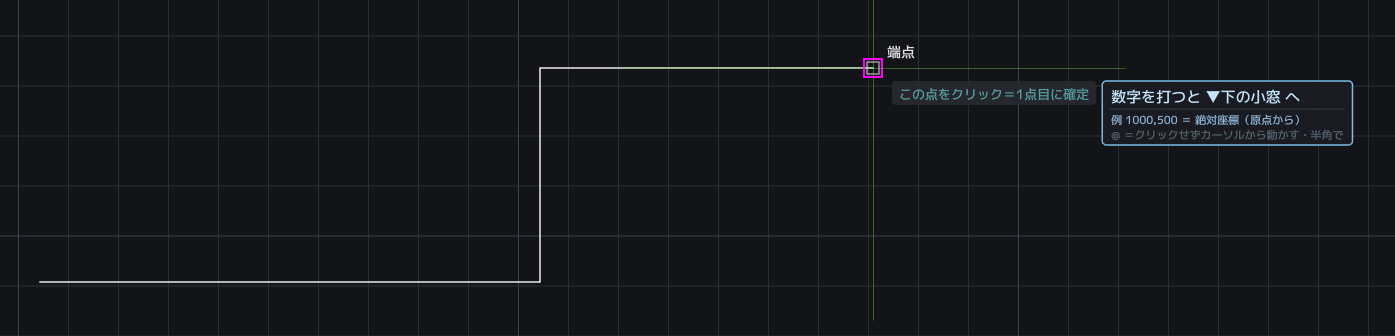
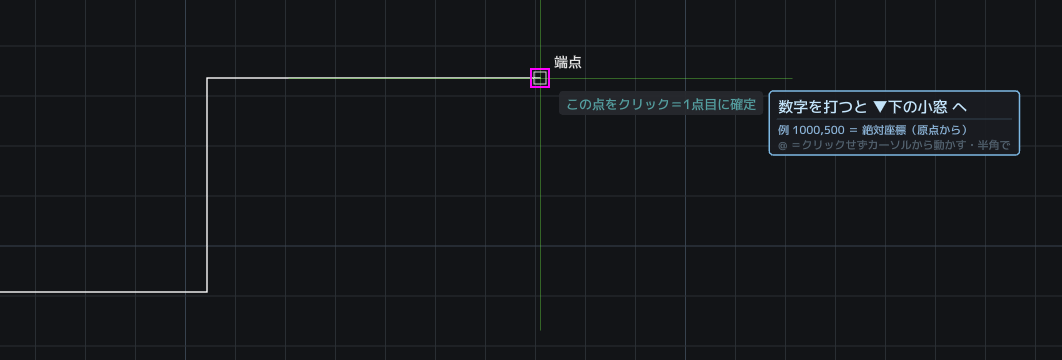
手引き：スナップの絵を詰めて大きく／本文の**強調**を太字に

diff --git a/kad/tebiki/08.html b/kad/tebiki/08.html
@@ -70,11 +70,11 @@ footer{margin-top:3em;padding-top:1em;border-top:1px solid #ded3c4;font-size:.85
 <li>線分との違いは「一本かどうか」だけです。線分は一手ごとに別々の線が生まれ、ポリラインは終えたときに一本にまとまります。</li>
 <li>外形線・敷地の境界・配管の経路など、あとで丸ごと選びたい線に。</li>
 <li>他所のCADのポリラインも一本のまま開き、保存でも一本で返します。</li>
-<li>トリムでは、ポリラインを**そのまま切れます**（一本のまま）。閉じたポリラインを切ると、開いた一本になります。ふくらみ（円弧の辺）も、途中で切れば正しく分かれます。</li>
+<li>トリムでは、ポリラインを<b>そのまま切れます</b>（一本のまま）。閉じたポリラインを切ると、開いた一本になります。ふくらみ（円弧の辺）も、途中で切れば正しく分かれます。</li>
 <li>基準線にも選べます（ここまで刈る・ここまで延ばす、の相手）。</li>
-<li>フィレット・面取りは、**ポリラインの角に効きます**（十五期百三十九号）。隣り合う二つの辺をクリックすると、その間の角が丸く（斜めに）なります。⚠弧を別に産まないので、**一本のまま**です。他所のCADでも一体で開きます。</li>
-<li>複線（O）は、ポリラインを**丸ごと平行に**太らせます（十五期百四十号）。</li>
-<li>分割（DIV）は、**全長を弧長で等分**して点を並べます。閉じた形はちょうど count 個・開いた形は両端に置かず count-1 個。</li>
+<li>フィレット・面取りは、<b>ポリラインの角に効きます</b>（十五期百三十九号）。隣り合う二つの辺をクリックすると、その間の角が丸く（斜めに）なります。⚠弧を別に産まないので、<b>一本のまま</b>です。他所のCADでも一体で開きます。</li>
+<li>複線（O）は、ポリラインを<b>丸ごと平行に</b>太らせます（十五期百四十号）。</li>
+<li>分割（DIV）は、<b>全長を弧長で等分</b>して点を並べます。閉じた形はちょうど count 個・開いた形は両端に置かず count-1 個。</li>
 </ul>
 </section>
 <section id="円"><h2>C / CIRCLE（円）</h2>
@@ -120,7 +120,7 @@ footer{margin-top:3em;padding-top:1em;border-top:1px solid #ded3c4;font-size:.85
 </ol>
 <ul>
 <li>曲線は打った点を全部、正確に通ります（雲形定規の作法）。</li>
-<li>打った点（通過点）は、あとから**吸着で掴めます**。通り芯や他の線を、その点にぴたりと合わせられます。</li>
+<li>打った点（通過点）は、あとから<b>吸着で掴めます</b>。通り芯や他の線を、その点にぴたりと合わせられます。</li>
 <li>敷地の等高線・道路の線形・意匠の曲線などに。</li>
 <li>保存はDXFのSPLINEそのまま＝他所のCADでも一本の曲線のまま開け、通過点も一緒に渡るので、あちらでそのまま編集できます。</li>
 </ul>
@@ -132,7 +132,7 @@ footer{margin-top:3em;padding-top:1em;border-top:1px solid #ded3c4;font-size:.85
 </ol>
 <ul>
 <li>REC C 10＝面取り10の四角／REC F 15＝角丸R15。0 を打てば解除です。</li>
-<li>四角は**一体のポリライン**です（十五期百三十九号）。どの辺をクリックしても四角ぜんぶが選べます（一発選択）。四隅と四辺の中点は、今までどおり全部スナップできます。複線（O）は四角ごと平行に、分割（DIV）は周りを等分します（十五期百四十号）。一辺だけ使いたい日は X（分解）で。</li>
+<li>四角は<b>一体のポリライン</b>です（十五期百三十九号）。どの辺をクリックしても四角ぜんぶが選べます（一発選択）。四隅と四辺の中点は、今までどおり全部スナップできます。複線（O）は四角ごと平行に、分割（DIV）は周りを等分します（十五期百四十号）。一辺だけ使いたい日は X（分解）で。</li>
 </ul>
 </section>
 <section id="ポリゴン"><h2>POL / ポリゴン（正多角形）</h2>
@@ -143,10 +143,10 @@ footer{margin-top:3em;padding-top:1em;border-top:1px solid #ded3c4;font-size:.85
 </div></li>
 </ol>
 <ul>
-<li>描いている間、画面の下に**帯**が出ます。辺の数（3 4 5 6 8 10 12）と、内接／外接をそこで選べます。← → でも辺の数を一つずつ増やしたり減らしたりできます。</li>
-<li>**内接**＝角が円に載る（半径は中心から角まで）。</li>
-<li>**外接**＝辺が円に接する（半径は中心から辺まで）。⚠六角ボルト・ナットの「二面幅」は外接です。二面幅24のナットなら、外接で半径12。内接で12を打つと、ひと回り小さい別の部品になります。</li>
-<li>産まれるのは**一体の閉じたポリライン**（四角と同じ）。一発で選べて、ハッチも複線もそのまま効きます。</li>
+<li>描いている間、画面の下に<b>帯</b>が出ます。辺の数（3 4 5 6 8 10 12）と、内接／外接をそこで選べます。← → でも辺の数を一つずつ増やしたり減らしたりできます。</li>
+<li><b>内接</b>＝角が円に載る（半径は中心から角まで）。</li>
+<li><b>外接</b>＝辺が円に接する（半径は中心から辺まで）。⚠六角ボルト・ナットの「二面幅」は外接です。二面幅24のナットなら、外接で半径12。内接で12を打つと、ひと回り小さい別の部品になります。</li>
+<li>産まれるのは<b>一体の閉じたポリライン</b>（四角と同じ）。一発で選べて、ハッチも複線もそのまま効きます。</li>
 <li>向きは、半径の点をどちらに取るかで決まります（真上を指せば頂点が上、という具合）。</li>
 </ul>
 </section>
@@ -165,9 +165,9 @@ footer{margin-top:3em;padding-top:1em;border-top:1px solid #ded3c4;font-size:.85
 <ol class="steps">
 <li><span class="mark">①</span><div>小窓に DT →Enter（DT 5＝はじめから字高5・DT 右下＝基準の指定）。リボン「作成」の【文字】ボタンでも同じです。
 </div></li>
-<li><span class="mark">②</span><div>文字の入る枠を、対角の2点でとります（**枠の高さが、そのまま字高**になります。角はスナップで正確にとれます）。🔑四角を先に描いて選んでから DT＝その四角がそのまま枠に（四角は残ります）。🔑表のセルや図枠の中なら、帯の【枠の中をクリック】＝一回押すだけで枠に。
+<li><span class="mark">②</span><div>文字の入る枠を、対角の2点でとります（<b>枠の高さが、そのまま字高</b>になります。角はスナップで正確にとれます）。🔑四角を先に描いて選んでから DT＝その四角がそのまま枠に（四角は残ります）。🔑表のセルや図枠の中なら、帯の【枠の中をクリック】＝一回押すだけで枠に。
 </div></li>
-<li><span class="mark">③</span><div>その場で一行を打って **Enter＝確定**（✓ボタン・枠の外クリックでも）。Esc＝中止。改行はありません（改行のある注記は MT へ）。
+<li><span class="mark">③</span><div>その場で一行を打って <b>Enter＝確定</b>（✓ボタン・枠の外クリックでも）。Esc＝中止。改行はありません（改行のある注記は MT へ）。
 </div></li>
 <li><span class="mark">④</span><div>文字は、選んだ基準のとおりに枠へ付きます（基準【右下】なら枠の右下に、【中央】なら枠のど真ん中に）。
 </div></li>
@@ -195,23 +195,23 @@ footer{margin-top:3em;padding-top:1em;border-top:1px solid #ded3c4;font-size:.85
 </section>
 <section id="段落文字"><h2>MT（段落文字）＝改行のある注記を、枠の中へ流し込む</h2>
 <ol class="steps">
-<li><span class="mark">①</span><div>小窓に MT →Enter（MT 5＝はじめから字高5）。リボン「作成」の【段落】ボタンでも同じです。🔑**四角を先に描いてあるなら、それを選んでから MT**＝その四角が、そのまま枠になります。（`REC 590,300` と数字で描けば、枠を正確に決められます）⚠選んだ四角は**そのまま残ります**（枠として借りただけ）。図枠や表の罫線を枠に使っても、線は一本も消えません。🔑**表のセルや図枠の中に書くなら、帯の【枠の中をクリック】へ**（Tabでも）。その部屋を一回押すだけで、囲まれた範囲がそのまま枠になります。（表の罫線は通し線なので、セルは「図形」としては選べません。だから**部屋のほうを指します**）
+<li><span class="mark">①</span><div>小窓に MT →Enter（MT 5＝はじめから字高5）。リボン「作成」の【段落】ボタンでも同じです。🔑<b>四角を先に描いてあるなら、それを選んでから MT</b>＝その四角が、そのまま枠になります。（`REC 590,300` と数字で描けば、枠を正確に決められます）⚠選んだ四角は<b>そのまま残ります</b>（枠として借りただけ）。図枠や表の罫線を枠に使っても、線は一本も消えません。🔑<b>表のセルや図枠の中に書くなら、帯の【枠の中をクリック】へ</b>（Tabでも）。その部屋を一回押すだけで、囲まれた範囲がそのまま枠になります。（表の罫線は通し線なので、セルは「図形」としては選べません。だから<b>部屋のほうを指します</b>）
 </div></li>
-<li><span class="mark">②</span><div>文章の入る枠を、対角の2点でクリック。⚠効くのは**横幅**だけです。縦は文章が増えれば下へ育ちます。この横幅が、そのまま「折り返しの幅」になります。
+<li><span class="mark">②</span><div>文章の入る枠を、対角の2点でクリック。⚠効くのは<b>横幅</b>だけです。縦は文章が増えれば下へ育ちます。この横幅が、そのまま「折り返しの幅」になります。
 </div></li>
-<li><span class="mark">③</span><div>枠の中へ文章を打ちます。・Enter＝**改行**（文字記入のEnterとは意味が違います）・いちばん下の行で↓を押しても改行になります・幅からはみ出す字は、打っている最中に自動で折り返します（置いた後の姿と、同じ折れ方で見えています）
+<li><span class="mark">③</span><div>枠の中へ文章を打ちます。・Enter＝<b>改行</b>（文字記入のEnterとは意味が違います）・いちばん下の行で↓を押しても改行になります・幅からはみ出す字は、打っている最中に自動で折り返します（置いた後の姿と、同じ折れ方で見えています）
 </div></li>
-<li><span class="mark">④</span><div>直したい所は、ワードと同じように選べます。・枠の中をクリック＝そこにカーソルが移ります・押したまま引く＝**反転**（青くなった分が「選んだ分」）・Shift＋矢印・Home・End でも、反転を伸ばせます・Ctrl+A（Macは⌘A）＝本文をぜんぶ反転・反転したまま打てば**置き換え**、BackSpace／Delete で**その分だけ消えます**⚠引いている途中で枠の外へ出ても、反転は続きます（戻ってくれば繋がります）。
+<li><span class="mark">④</span><div>直したい所は、ワードと同じように選べます。・枠の中をクリック＝そこにカーソルが移ります・押したまま引く＝<b>反転</b>（青くなった分が「選んだ分」）・Shift＋矢印・Home・End でも、反転を伸ばせます・Ctrl+A（Macは⌘A）＝本文をぜんぶ反転・反転したまま打てば<b>置き換え</b>、BackSpace／Delete で<b>その分だけ消えます</b>⚠引いている途中で枠の外へ出ても、反転は続きます（戻ってくれば繋がります）。
 </div></li>
-<li><span class="mark">⑤</span><div>飾り（太字・斜体・下線・上線・取り消し線）は、枠の下の帯で。・反転してから押す＝**その分**に掛かります（もう一度押すと外れます）・何も選ばずに押す＝**これから打つ字**に掛かります（ワードと同じ）・太字は Ctrl+B、斜体は Ctrl+I、下線は Ctrl+U（Macは⌘B・⌘I・⌘U）でも。灯っているのが、いまの状態です⚠太字は、他所のCADでは太くならないことがあります（DXFは書体の名前で太字を表す決まりで、うちは**書体名を勝手に足さない**ことを選びました）。・斜体は、字を15度たおして描きます（字送りは変わりません）・取り消し線は、訂正・削除の印に使います⚠飾りはDXFの決まりどおりに保存されるので、他所のCADでもそのまま出ます。
+<li><span class="mark">⑤</span><div>飾り（太字・斜体・下線・上線・取り消し線）は、枠の下の帯で。・反転してから押す＝<b>その分</b>に掛かります（もう一度押すと外れます）・何も選ばずに押す＝<b>これから打つ字</b>に掛かります（ワードと同じ）・太字は Ctrl+B、斜体は Ctrl+I、下線は Ctrl+U（Macは⌘B・⌘I・⌘U）でも。灯っているのが、いまの状態です⚠太字は、他所のCADでは太くならないことがあります（DXFは書体の名前で太字を表す決まりで、うちは<b>書体名を勝手に足さない</b>ことを選びました）。・斜体は、字を15度たおして描きます（字送りは変わりません）・取り消し線は、訂正・削除の印に使います⚠飾りはDXFの決まりどおりに保存されるので、他所のCADでもそのまま出ます。
 </div></li>
 <li><span class="mark">⑥</span><div>字の大きさは、帯の右の【字高】の欄で、その場で変えられます。・押すと今の値が入って開きます（続きから直せます）・式も打てます（例：40/2 → 20）。Enter で決定、Esc で中止⚠変えると折り返しも一緒に変わります（枠の横幅は変わりません）。
 </div></li>
-<li><span class="mark">⑦</span><div>文章を、枠の**どの隅に合わせるか**は、帯の右の【基準】の九マスで。・押した点に、文章のその隅が来ます（左上・中央・右下…の九通り）・中央を選べば、表のマスのど真ん中に収まります・下を選べば、文章は**上へ**育ちます（上なら下へ、中なら上下へ）⚠既定は【左上】です。打っている最中に、いつでも変えられます。⚠打ち直しのときは出ません（そのときの隅を、そのまま守ります）。
+<li><span class="mark">⑦</span><div>文章を、枠の<b>どの隅に合わせるか</b>は、帯の右の【基準】の九マスで。・押した点に、文章のその隅が来ます（左上・中央・右下…の九通り）・中央を選べば、表のマスのど真ん中に収まります・下を選べば、文章は<b>上へ</b>育ちます（上なら下へ、中なら上下へ）⚠既定は【左上】です。打っている最中に、いつでも変えられます。⚠打ち直しのときは出ません（そのときの隅を、そのまま守ります）。
 </div></li>
 <li><span class="mark">⑧</span><div>終わり方は三つ。どれでも同じです。・枠の下の【✓ 確定】を押す・Ctrl+Enter（Macは⌘+Enterでも）・枠の外をクリックやめるときは Esc（右クリックでも）。
 </div></li>
-<li><span class="mark">⑨</span><div>置いたあとでも、**打ち直せます**。・段落を**ダブルクリック**＝そのまま枠が開いて、続きから直せます・選んで小窓に DDEDIT（または ED）でも同じです・右クリックの献立の【文字を編集】でも開きます・直したら、新しく打つときと同じ終わり方（✓・Ctrl+Enter・枠の外）・Esc なら、元のままで閉じます⚠空にして確定はできません（元のまま残ります）。消すときは選んで Delete。⚠傾いている段落は、まだ開けません（Xで分解すると行ごとの文字になります）。
+<li><span class="mark">⑨</span><div>置いたあとでも、<b>打ち直せます</b>。・段落を<b>ダブルクリック</b>＝そのまま枠が開いて、続きから直せます・選んで小窓に DDEDIT（または ED）でも同じです・右クリックの献立の【文字を編集】でも開きます・直したら、新しく打つときと同じ終わり方（✓・Ctrl+Enter・枠の外）・Esc なら、元のままで閉じます⚠空にして確定はできません（元のまま残ります）。消すときは選んで Delete。⚠傾いている段落は、まだ開けません（Xで分解すると行ごとの文字になります）。
 </div></li>
 </ol>
 </section>
@@ -223,11 +223,11 @@ footer{margin-top:3em;padding-top:1em;border-top:1px solid #ded3c4;font-size:.85
 </section>
 <section id="他所の図面から来た段落文字"><h2>他所の図面から来た段落文字</h2>
 <ul>
-<li>他所のCADの「改行を含む、ひとかたまりの注記」（MTEXT）は、**一かたまりのまま**開き、保存でも一かたまりのまま返します。書体や字高の指定も、うちでは使いませんが、そのままお預かりして返します。</li>
-<li>折り返しの幅も預かるので、**向こうのCADと同じ所で折り返して**見えます。</li>
+<li>他所のCADの「改行を含む、ひとかたまりの注記」（MTEXT）は、<b>一かたまりのまま</b>開き、保存でも一かたまりのまま返します。書体や字高の指定も、うちでは使いませんが、そのままお預かりして返します。</li>
+<li>折り返しの幅も預かるので、<b>向こうのCADと同じ所で折り返して</b>見えます。</li>
 <li>触ると「段落文字 3行」のように名乗ります。どの行を触っても全体が掴めます（移動・複製・回転はそのままできます）。</li>
 <li>字の大きさは変えられます（選んで右クリック→字高）。</li>
-<li>**打ち直せます**（ダブルクリック）。書体の指定など、うちが使わない飾りもそのままお返しするので、直しても図面は痩せません。⚠ただし、うちがまだ扱えない飾り（色・字高の倍率など）が入っている段落は、**開かずに、その場で理由を言います**——直すとその飾りが失われるからです。その場合は X（分解）で行ごとの文字に分ければ、一行ずつ打ち直せます（⚠分解すると、書体・字高の指定は失われます）。⚠傾いている段落と、貼り付ける隅が左上でない段落も、まだ開けません。</li>
+<li><b>打ち直せます</b>（ダブルクリック）。書体の指定など、うちが使わない飾りもそのままお返しするので、直しても図面は痩せません。⚠ただし、うちがまだ扱えない飾り（色・字高の倍率など）が入っている段落は、<b>開かずに、その場で理由を言います</b>——直すとその飾りが失われるからです。その場合は X（分解）で行ごとの文字に分ければ、一行ずつ打ち直せます（⚠分解すると、書体・字高の指定は失われます）。⚠傾いている段落と、貼り付ける隅が左上でない段落も、まだ開けません。</li>
 </ul>
 </section>
 <section id="引出線"><h2>LE / 引出線</h2>

diff --git a/kad/tebiki/10.html b/kad/tebiki/10.html
@@ -54,7 +54,7 @@ footer{margin-top:3em;padding-top:1em;border-top:1px solid #ded3c4;font-size:.85
 <li>先に図形を選んでから TR＝「一括トリム」。選んだ線からはみ出した部分を、Enter一発でまとめて刈ります。（これを「城攻め」と呼んでいます＝外へはみ出した分を追い出す）</li>
 <li>基準線にできるもの＝線・円・円弧・ポリライン・楕円・スプライン。曲線までピタリと刈れます（寸法や文字は基準線になりません）。</li>
 <li>刈られる側＝線・円・円弧・楕円・ポリライン・スプライン。楕円を刈ると楕円弧に、閉じたポリラインを刈ると開いた一本になります。</li>
-<li>スプラインも切れます。切っても**形は一ミリも変わりません**（曲線の骨を、同じ道を通るように作り直しています）。ただし、切った一片は「通過点」の記録を手放します＝切ったあとは、その一片の通過点には吸い付きません（両端は今までどおり掴めます）。閉じたスプラインは、まだ切れません（そのときは理由が出ます）。</li>
+<li>スプラインも切れます。切っても<b>形は一ミリも変わりません</b>（曲線の骨を、同じ道を通るように作り直しています）。ただし、切った一片は「通過点」の記録を手放します＝切ったあとは、その一片の通過点には吸い付きません（両端は今までどおり掴めます）。閉じたスプラインは、まだ切れません（そのときは理由が出ます）。</li>
 </ul>
 </section>
 <section id="Tab】囲いの中を、一手で消す"><h2>TR → Tab】囲いの中を、一手で消す</h2>
@@ -97,7 +97,7 @@ footer{margin-top:3em;padding-top:1em;border-top:1px solid #ded3c4;font-size:.85
 </div></li>
 </ol>
 <ul>
-<li>線・円・円弧・ポリラインを割れます。ポリラインは**全長を弧長で等分**します（辺の数ではありません）。閉じた形はちょうど count 個・開いた形は両端に置かず count-1 個。</li>
+<li>線・円・円弧・ポリラインを割れます。ポリラインは<b>全長を弧長で等分</b>します（辺の数ではありません）。閉じた形はちょうど count 個・開いた形は両端に置かず count-1 個。</li>
 </ul>
 </section>
 <section id="延長"><h2>EX / EXTEND（延長）</h2>
@@ -119,7 +119,7 @@ footer{margin-top:3em;padding-top:1em;border-top:1px solid #ded3c4;font-size:.85
 </ol>
 <p>円・弧は同心円になります。</p>
 <ul>
-<li>**ポリライン（四角も）は、丸ごと平行に太ります／細ります**。角の始末は自動です＝壁の下書きが一手でできます。角が丸い四角も、Rが育って（縮んで）ついてきます。⚠内側へ入りきらない間隔は、理由を言って断ります。⚠円弧が角をなしている形だけは、まだ複線できません。</li>
+<li><b>ポリライン（四角も）は、丸ごと平行に太ります／細ります</b>。角の始末は自動です＝壁の下書きが一手でできます。角が丸い四角も、Rが育って（縮んで）ついてきます。⚠内側へ入りきらない間隔は、理由を言って断ります。⚠円弧が角をなしている形だけは、まだ複線できません。</li>
 </ul>
 </section>
 <section id="フィレット"><h2>F / FILLET（フィレット）／CHA（面取り）</h2>
@@ -132,7 +132,7 @@ footer{margin-top:3em;padding-top:1em;border-top:1px solid #ded3c4;font-size:.85
 </div></li>
 </ol>
 <ul>
-<li>**ポリライン（四角も）の角**も、同じ手で丸められます。②③で、同じポリラインの**隣り合う二つの辺**をクリック。⚠図形は一本のまま増えません（弧はポリラインの中に入ります）。半径0（角つなぎ）は線どうし専用です——ポリラインの角はもう繋がっているので、R か 面取りの寸法を先に決めてください。隣が円弧の角は、まだ作れません（画面が理由を言います）。</li>
+<li><b>ポリライン（四角も）の角</b>も、同じ手で丸められます。②③で、同じポリラインの<b>隣り合う二つの辺</b>をクリック。⚠図形は一本のまま増えません（弧はポリラインの中に入ります）。半径0（角つなぎ）は線どうし専用です——ポリラインの角はもう繋がっているので、R か 面取りの寸法を先に決めてください。隣が円弧の角は、まだ作れません（画面が理由を言います）。</li>
 </ul>
 </section>
 <section id="複製"><h2>CO / COPY（複製）／M / MOVE（移動）</h2>
@@ -148,7 +148,7 @@ footer{margin-top:3em;padding-top:1em;border-top:1px solid #ded3c4;font-size:.85
 <p>貼れます。</p>
 </section>
 <section id="ストレッチ"><h2>S / STRETCH（ストレッチ）</h2>
-<p>「この壁を200奥へ」——**囲んだ側の端だけ**を伸ばす道具です。</p>
+<p>「この壁を200奥へ」——<b>囲んだ側の端だけ</b>を伸ばす道具です。</p>
 <ol class="steps">
 <li><span class="mark">①</span><div>小窓に S →Enter（リボンの「ストレッチ」でも）。
 </div></li>
@@ -160,9 +160,9 @@ footer{margin-top:3em;padding-top:1em;border-top:1px solid #ded3c4;font-size:.85
 </div></li>
 </ol>
 <ul>
-<li>窓に**丸ごと**入った図形は、丸ごと動きます（＝移動と同じ）。</li>
-<li>窓に**半分だけ**掛かった線は、囲まれた側の端だけが動く＝線が伸び縮みします。これがこの道具の本体です。</li>
-<li>寸法も一緒に伸びて、**数字が自分で変わります**（4550が4750に）。壁と寸法を一緒に囲むのがコツ。</li>
+<li>窓に<b>丸ごと</b>入った図形は、丸ごと動きます（＝移動と同じ）。</li>
+<li>窓に<b>半分だけ</b>掛かった線は、囲まれた側の端だけが動く＝線が伸び縮みします。これがこの道具の本体です。</li>
+<li>寸法も一緒に伸びて、<b>数字が自分で変わります</b>（4550が4750に）。壁と寸法を一緒に囲むのがコツ。</li>
 <li>円・円弧・楕円・文字・部品は、形を変えずに丸ごと動きます（中心や挿入点が窓の中に入っていれば）。</li>
 <li>ハッチ（塗り）は、丸ごと囲んだ時だけ動きます。形が変わる塗りは作りません——形を直してから塗り直すほうが確実です。</li>
 <li>Esc・右クリック＝一手だけ戻ります（図面は無傷）。</li>
@@ -170,12 +170,12 @@ footer{margin-top:3em;padding-top:1em;border-top:1px solid #ded3c4;font-size:.85
 </section>
 <section id="いちばん多いつまずき"><h2>いちばん多いつまずき＝線が「折れる」</h2>
 <p>半分だけ掛かった線は、囲まれた側の端だけが動きます。だから</p>
-<p>**斜めへ置くと、その線は斜めになります**（縦の壁が傾く）。</p>
+<p><b>斜めへ置くと、その線は斜めになります</b>（縦の壁が傾く）。</p>
 <p>操作を間違えたのではなく、そういう道具です——ほかのCADでも</p>
 <p>同じことが起きます。</p>
 <ul>
-<li>**F8（直交）を点ければ、水平・垂直だけに動きます**。実務の「壁を200奥へ」は、ほぼ必ずこれです。</li>
-<li>置く前に画面が教えます——伸ばす先を探している間、**角度が変わる線は琥珀色**で下見せされ、カーソル脇の札が「このまま置くと琥珀の線の角度が変わります」と言います。琥珀が出たら、F8を押すか、窓を取り直してください。</li>
+<li><b>F8（直交）を点ければ、水平・垂直だけに動きます</b>。実務の「壁を200奥へ」は、ほぼ必ずこれです。</li>
+<li>置く前に画面が教えます——伸ばす先を探している間、<b>角度が変わる線は琥珀色</b>で下見せされ、カーソル脇の札が「このまま置くと琥珀の線の角度が変わります」と言います。琥珀が出たら、F8を押すか、窓を取り直してください。</li>
 <li>角度を保ったまま1本だけ伸ばしたい時は、この道具ではなくつまみ（線を選んで端の青い四角を掴む）か、EX（延長）が向いています。</li>
 </ul>
 </section>

diff --git a/kad/tebiki/09.html b/kad/tebiki/09.html
@@ -89,13 +89,13 @@ footer{margin-top:3em;padding-top:1em;border-top:1px solid #ded3c4;font-size:.85
 </div></li>
 <li><span class="mark">②</span><div>1点目をクリック（スナップが効きます）。
 </div></li>
-<li><span class="mark">③</span><div>2点目へカーソルを動かすと、**クリックする前から**距離・角度・横・縦がその場に出続けます。
+<li><span class="mark">③</span><div>2点目へカーソルを動かすと、<b>クリックする前から</b>距離・角度・横・縦がその場に出続けます。
 </div></li>
 <li><span class="mark">④</span><div>クリックで確定＝小窓の履歴に一行残ります。そのまま続けて次の二点を測れます（Escでやめる）。
 </div></li>
 </ol>
 <ul>
-<li>図面には線も寸法も**一本も残りません**。「ちょっと測りたいだけ」のために寸法を打つと、読んで、消す、の二手が余分に要り、消し忘れれば相手に渡す図面に下調べの跡が乗ります。</li>
+<li>図面には線も寸法も<b>一本も残りません</b>。「ちょっと測りたいだけ」のために寸法を打つと、読んで、消す、の二手が余分に要り、消し忘れれば相手に渡す図面に下調べの跡が乗ります。</li>
 <li>直交（F8）は、この道具では効きません＝斜めの本当の距離が測れるように（拘束は「決める」道具のもの）。</li>
 </ul>
 </section>
@@ -103,26 +103,26 @@ footer{margin-top:3em;padding-top:1em;border-top:1px solid #ded3c4;font-size:.85
 <ol class="steps">
 <li><span class="mark">①</span><div>計測に入ると、下に帯が出ます。［面積を測る］を押す（小窓に AREA →Enter でも、Tab でも切り替わります）。
 </div></li>
-<li><span class="mark">②</span><div>測りたい部屋の**内側**を、一回クリック。囲いがピンクで光り、面積と周長がその場に出ます。
+<li><span class="mark">②</span><div>測りたい部屋の<b>内側</b>を、一回クリック。囲いがピンクで光り、面積と周長がその場に出ます。
 </div></li>
 </ol>
 <ul>
-<li>**島（穴）は引きます**。中に浮かんでいる形があれば、その分を引いて「島n か所を引きました」と名乗ります。</li>
-<li>閉じた図形（四角・円・ポリゴン…）を**先に選んでから**計測に入っても測れます（複数選んでも構いません）。⚠円をひとつ選んだ時だけは、πr² で厳密に出します。</li>
-<li>弧を含む囲い（円・角丸）は、弧を細かい折れ線に開いて測るので、答えはほんの少しだけ小さく出ます（半径1000で 0.007%、半径100で 0.07% ほど）。**小さい形ほど、この差は大きくなります**。</li>
+<li><b>島（穴）は引きます</b>。中に浮かんでいる形があれば、その分を引いて「島n か所を引きました」と名乗ります。</li>
+<li>閉じた図形（四角・円・ポリゴン…）を<b>先に選んでから</b>計測に入っても測れます（複数選んでも構いません）。⚠円をひとつ選んだ時だけは、πr² で厳密に出します。</li>
+<li>弧を含む囲い（円・角丸）は、弧を細かい折れ線に開いて測るので、答えはほんの少しだけ小さく出ます（半径1000で 0.007%、半径100で 0.07% ほど）。<b>小さい形ほど、この差は大きくなります</b>。</li>
 <li>囲まれていない所を押すと、その理由を言います（線に隙間があるか、閉じていません）。</li>
 </ul>
 </section>
 <section id="測った答えを、メモや図面へ"><h2>測った答えを、メモや図面へ</h2>
 <p>帯の右に二つ並んでいます（測る前は薄く「測ると押せます」）。</p>
 <ol class="steps">
-<li><span class="mark">①</span><div>［図面に書き込む］…押して、置く場所をクリック。いまの字高・現在画層で文字が一つ置かれます。⚠**この一打だけが図面を変えます**（U ひと押しで消せます）。
+<li><span class="mark">①</span><div>［図面に書き込む］…押して、置く場所をクリック。いまの字高・現在画層で文字が一つ置かれます。⚠<b>この一打だけが図面を変えます</b>（U ひと押しで消せます）。
 </div></li>
 <li><span class="mark">②</span><div>［コピー］…パソコンのクリップボードへ。メモ帳や表計算にそのまま貼れます。
 </div></li>
 </ol>
 <ul>
-<li>押さなければ何も起きません＝**「書かない」が既定**です。距離でも面積でも、直前に測った答えが渡ります。</li>
+<li>押さなければ何も起きません＝<b>「書かない」が既定</b>です。距離でも面積でも、直前に測った答えが渡ります。</li>
 </ul>
 </section>
 <section id="寸法の身なり"><h2>寸法の身なり（スタイル）</h2>

diff --git a/kad/tebiki/02.html b/kad/tebiki/02.html
@@ -78,12 +78,12 @@ footer{margin-top:3em;padding-top:1em;border-top:1px solid #ded3c4;font-size:.85
 <p>コマンドを一度も打たずに線が伸びる、本家ゆずりの手です。</p>
 </section>
 <section id="ポリライン"><h2>ポリライン（四角・多角形）のつまみ</h2>
-<p>**形で見分けます**。つまみを見れば、何ができるか分かります。</p>
+<p><b>形で見分けます</b>。つまみを見れば、何ができるか分かります。</p>
 <ul>
-<li>**□（正方形）＝頂点**。掴むとその一点だけが動きます。</li>
-<li>**▭（長方形）＝辺の中点**。掴むとその辺ごと平行に動きます（両端の頂点が一緒に動く＝辺の向きは変わりません）。</li>
+<li><b>□（正方形）＝頂点</b>。掴むとその一点だけが動きます。</li>
+<li><b>▭（長方形）＝辺の中点</b>。掴むとその辺ごと平行に動きます（両端の頂点が一緒に動く＝辺の向きは変わりません）。</li>
 </ul>
-<p>線分の□と形を分けてあるのは、**できることが違うから**です。</p>
+<p>線分の□と形を分けてあるのは、<b>できることが違うから</b>です。</p>
 <ul>
 <li>伸ばす先をクリック／数字＋Enter＝どちらも線分と同じ手です。</li>
 <li>角丸の辺（弧）には中点のつまみを出しません。弧の真ん中は弦の真ん中とは別の場所で、そこに印を置くと嘘になるためです。</li>
@@ -94,9 +94,9 @@ footer{margin-top:3em;padding-top:1em;border-top:1px solid #ded3c4;font-size:.85
 <p>「あの機能、なんだっけ？」と思ったら、右クリックです。</p>
 <p>鍵を覚えていなくても、ここから辿り着けます。</p>
 <ul>
-<li>**図形を選んで**右クリック＝その図形にする用事が並びます。切り取り・コピー・貼り付け／移動・複製・回転・鏡像・削除／現在画層へ・この画層を現在に・画層に従わせる／字高…・文字を編集・仮想交点／部品化・プロパティ。</li>
-<li>**何も選ばずに**右クリック＝図面ぜんぶへの用事が並びます。貼り付け・元の場所へ貼り付け／全選択・取り消し／エイリアスボード（鍵の一覧をひらく）。</li>
-<li>各行の右端の字は、**その一行を呼ぶ手の早道**です。鍵のあるものは鍵（⌘C など）、無いものは小窓の言葉（M・CO）。⚠鍵をエイリアスボードで替えると、ここの字も一緒に変わります。</li>
+<li><b>図形を選んで</b>右クリック＝その図形にする用事が並びます。切り取り・コピー・貼り付け／移動・複製・回転・鏡像・削除／現在画層へ・この画層を現在に・画層に従わせる／字高…・文字を編集・仮想交点／部品化・プロパティ。</li>
+<li><b>何も選ばずに</b>右クリック＝図面ぜんぶへの用事が並びます。貼り付け・元の場所へ貼り付け／全選択・取り消し／エイリアスボード（鍵の一覧をひらく）。</li>
+<li>各行の右端の字は、<b>その一行を呼ぶ手の早道</b>です。鍵のあるものは鍵（⌘C など）、無いものは小窓の言葉（M・CO）。⚠鍵をエイリアスボードで替えると、ここの字も一緒に変わります。</li>
 <li>作図や配置の最中の右クリック＝「中止・終了」です。（複製の連続貼りを終える・ハッチの点を一つ戻す、など）</li>
 </ul>
 </section>
@@ -110,8 +110,8 @@ footer{margin-top:3em;padding-top:1em;border-top:1px solid #ded3c4;font-size:.85
 </div></li>
 </ol>
 <ul>
-<li>⌘⇧V＝控えた時と**同じ座標**へ、そのまま置きます。⚠**同じ図面の中では使えません**（元の絵にぴったり重なるだけになるため）。献立でも薄くなります。＝**別のタブへ、同じ座標で持っていく**ときの道具です。同じ場所へ重ねたい日は、⌘V で同じ点をクリックしてください。</li>
-<li>**別のタブへも貼れます**。行き先に無い画層は、色と線種ごと連れて行きます（部品の原本も一緒に旅をします）。</li>
+<li>⌘⇧V＝控えた時と<b>同じ座標</b>へ、そのまま置きます。⚠<b>同じ図面の中では使えません</b>（元の絵にぴったり重なるだけになるため）。献立でも薄くなります。＝<b>別のタブへ、同じ座標で持っていく</b>ときの道具です。同じ場所へ重ねたい日は、⌘V で同じ点をクリックしてください。</li>
+<li><b>別のタブへも貼れます</b>。行き先に無い画層は、色と線種ごと連れて行きます（部品の原本も一緒に旅をします）。</li>
 <li>小窓の言葉でも呼べます＝COPYCLIP・CUTCLIP・PASTECLIP・PASTEORIG・SELALL（本家と同じ名前です）。</li>
 </ul>
 </section>

diff --git a/kad/tebiki/14.html b/kad/tebiki/14.html
@@ -86,7 +86,7 @@ footer{margin-top:3em;padding-top:1em;border-top:1px solid #ded3c4;font-size:.85
 </ul>
 <ul>
 <li>窓を選ぶと、下に帯が出ます＝縮尺の早見と、ロック。← → で、キリのいい縮尺を一つずつ送れます（帯に無い 1:75・1:125 へも）。どちらにも無い半端は、小窓に VPSCALE 75（＝1:75）と打てます。</li>
-<li>掴んで動かす（中ボタン、またはスペース＋ドラッグ）＝映す場所が動きます。⚠ホイールは、窓の上でも**いつも紙**が拡大縮小します。だから、うっかり回して縮尺が狂う、ということが起きません。</li>
+<li>掴んで動かす（中ボタン、またはスペース＋ドラッグ）＝映す場所が動きます。⚠ホイールは、窓の上でも<b>いつも紙</b>が拡大縮小します。だから、うっかり回して縮尺が狂う、ということが起きません。</li>
 <li>ロック＝構図と縮尺に錠をかけます（押せば外せます）。</li>
 </ul>
 <p>⚠窓の中の図面は、ここでは直せません。モデルのタブで直します。窓は「カメラ」なので、映っているものを触るのではなく、カメラの設定（縮尺・映す場所）を直す、という考え方です。※ほかのCADで「窓の中に入る」と呼ばれる操作にあたるものは、K\'Adでは「窓を選ぶ」の一手です。いま自分がどちらの空間に居るのか、分からなくなることがありません。</p>
@@ -107,7 +107,7 @@ footer{margin-top:3em;padding-top:1em;border-top:1px solid #ded3c4;font-size:.85
 <li>一覧をクリック＝その窓を選びます（図面のほうでも、その窓が光ります）。</li>
 <li>縮尺　値の欄を押すと、その場で打てます（50＝1:50／1:75／2:1 の顔で）。「一覧」を押すと縮尺の棚が広がり、押すだけで選べます。◀ ▶ で、キリのいい縮尺を一つずつ送ることもできます（下の帯と同じ答えです）。</li>
 <li>寸法／文字／引出線　自動の上に掛ける倍率を、別々に直せます。</li>
-<li>矢　寸法の矢だけを、さらに微調整できます（寸法の倍率の上に掛かります）。矢に見えるか、棒が伸びているだけに見えるか——最後は目で決める所です。溝のつまみを掴んで動かすと、**動かしながら図面が変わります**。右の「×1.00」を押せば、その場で数字も打てます（式も可＝1/2 など）。1.00＝自動のまま。まとめて変えたい時は、小窓に VPNOTE 1.5 と打てます。※「文字」の倍率は、段落文字にも効きます（折り返しの幅も一緒に動くので、行の形がくずれません）。</li>
+<li>矢　寸法の矢だけを、さらに微調整できます（寸法の倍率の上に掛かります）。矢に見えるか、棒が伸びているだけに見えるか——最後は目で決める所です。溝のつまみを掴んで動かすと、<b>動かしながら図面が変わります</b>。右の「×1.00」を押せば、その場で数字も打てます（式も可＝1/2 など）。1.00＝自動のまま。まとめて変えたい時は、小窓に VPNOTE 1.5 と打てます。※「文字」の倍率は、段落文字にも効きます（折り返しの幅も一緒に動くので、行の形がくずれません）。</li>
 <li>ロック　構図と縮尺に錠をかけます。</li>
 <li>範囲を絞る　板からも押せます（囲うのは窓の中の対角2点＝下の帯と同じです）。</li>
 <li>破線　紙基準⇄図面のままを、板からも切り替えられます。※これは図面ぜんぶに効く切り替えです（この窓だけではありません）。</li>
@@ -140,7 +140,7 @@ footer{margin-top:3em;padding-top:1em;border-top:1px solid #ded3c4;font-size:.85
 </ul>
 </section>
 <section id="モデルの図面を、紙へ切り出して貼る"><h2>モデルの図面を、紙へ切り出して貼る</h2>
-<p>窓（カメラ）で映すほかに、**図面そのものを紙へ持ってくる**道があります。</p>
+<p>窓（カメラ）で映すほかに、<b>図面そのものを紙へ持ってくる</b>道があります。</p>
 <p>図面が固まったあと、紙を組む時の道です。</p>
 <ul>
 <li>① モデルのタブで、持っていきたい分を選びます。全部でも（右クリック→全選択）、一部だけでも（窓掛けで囲う）構いません。</li>

diff --git a/kad/tebiki/06.html b/kad/tebiki/06.html
@@ -47,8 +47,8 @@ footer{margin-top:3em;padding-top:1em;border-top:1px solid #ded3c4;font-size:.85
 <p>吸い付く点＝端点・中点・円と弧の中心・点・交点・</p>
 <p>かたちの中心・文字（挿入基点・枠の四隅・中央）。</p>
 <ul>
-<li>**かたちの中心**＝閉じた形の真ん中（藤色の□に点）。四角・ポリゴン（正多角形）・閉じたポリラインで名乗ります。例：六角ボルトの芯にネジ穴を描く——中心に吸い付けます。⚠空中の点なので、本物の点（端点など）が近くにあるとそちらが先に名乗ります。Tab で送れば手が届きます。</li>
-<li>スプラインは、両端のほかに**自分がクリックした通過点**にも吸い付きます。（曲線を引いたときの、あの点そのもの。制御点には吸いません＝制御点は曲線から浮いている錘なので、掴んでも意味がないためです）</li>
+<li><b>かたちの中心</b>＝閉じた形の真ん中（藤色の□に点）。四角・ポリゴン（正多角形）・閉じたポリラインで名乗ります。例：六角ボルトの芯にネジ穴を描く——中心に吸い付けます。⚠空中の点なので、本物の点（端点など）が近くにあるとそちらが先に名乗ります。Tab で送れば手が届きます。</li>
+<li>スプラインは、両端のほかに<b>自分がクリックした通過点</b>にも吸い付きます。（曲線を引いたときの、あの点そのもの。制御点には吸いません＝制御点は曲線から浮いている錘なので、掴んでも意味がないためです）</li>
 </ul>
 <p>候補が重なる場所では Tab で切り替えられます。</p>
 <p>下の帯の「スナップ」チップで入切できます。</p>

diff --git a/kad/tebiki/07.html b/kad/tebiki/07.html
@@ -80,7 +80,7 @@ footer{margin-top:3em;padding-top:1em;border-top:1px solid #ded3c4;font-size:.85
 <li>行の右の「既定」で出荷時へ、「外す」で鍵ゼロにできます。（鍵ゼロにしても、リボンと小窓からは今までどおり使えます）</li>
 <li>一つの役に、鍵は二つまで持てます（⌘N と ⌘T のように）。</li>
 </ul>
-<p>⚠L・C・A・D・O・U・E・F8 は**道具の一文字キー**で、この板の管理の外にあります（替えられません）。</p>
+<p>⚠L・C・A・D・O・U・E・F8 は<b>道具の一文字キー</b>で、この板の管理の外にあります（替えられません）。</p>
 <p>⚠記号のキー（, . / [ ] など）は鍵にできません。キーボードの配列によって、刻印と位置がずれるためです。</p>
 </section>
 <section id="Enterの癖"><h2>Enter の癖</h2>
